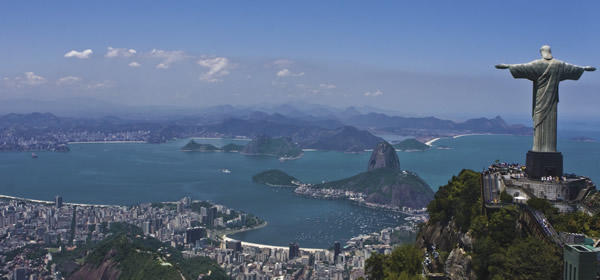
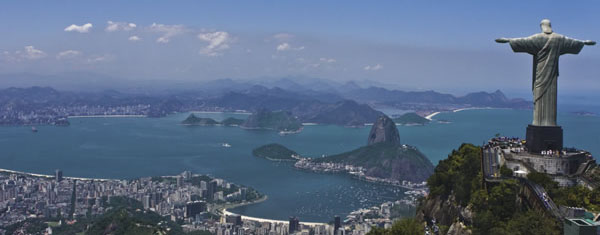
Demo makes the advantage of use with content of different heights apparent.

diff --git a/demo/components/Demo.jsx b/demo/components/Demo.jsx
@@ -37,23 +37,21 @@ class Demo extends React.Component {
           <p className="text-danger"><em>Click any content to trigger the transition.</em></p>
 
           <h2>Cross-fade transition</h2>
-          <ContentSwapper transitionName="cross-fade" transitionEnterTimeout={1000} transitionLeaveTimeout={1000}
-                          transitionHeight={false}>
-            <img key="img1" src="/img/vista1.jpg" width="600" height="280"/>
+          <ContentSwapper transitionName="cross-fade" transitionEnterTimeout={1000} transitionLeaveTimeout={1000}>
+            <img key="img1" src="/img/vista1.jpg" width="600" height="235"/>
             <img key="img2" src="/img/vista2.jpg" width="600" height="280"/>
           </ContentSwapper>
 
           <h2>Fade out, then fade in transition</h2>
-          <ContentSwapper transitionName="fade-wait" transitionEnterTimeout={1000} transitionLeaveTimeout={1000}>
+          <ContentSwapper transitionName="fade-wait" transitionEnterTimeout={1000} transitionLeaveTimeout={400}>
             <ContentLong key="long"/>
             <ContentShort key="short"/>
           </ContentSwapper>
 
           <h2>Carousel transition</h2>
-          <ContentSwapper style={{width: 600}}
-                          transitionName="carousel-swap" transitionEnterTimeout={500} transitionLeaveTimeout={500}
-                          transitionHeight={false}>
-            <img key="img3" src="/img/vista3.jpg" width="600" height="280"/>
+          <ContentSwapper transitionName="carousel-swap" transitionEnterTimeout={500} transitionLeaveTimeout={500}
+                          style={{width: 600}}>
+            <img key="img3" src="/img/vista3.jpg" width="600" height="255"/>
             <img key="img4" src="/img/vista4.jpg" width="600" height="280"/>
           </ContentSwapper>
 

diff --git a/demo/assets/transitions.css b/demo/assets/transitions.css
@@ -35,7 +35,7 @@ body {
 }
 .fade-wait-leave.fade-wait-leave-active {
   opacity: 0;
-  transition: opacity .5s ease-in;
+  transition: opacity .4s ease-in;
 }
 
 .fade-wait-enter {
@@ -44,7 +44,7 @@ body {
 .fade-wait-enter.fade-wait-enter-active {
   opacity: 1;
   /* Delay the enter animation until the leave completes */
-  transition: opacity .5s ease-in .5s;
+  transition: opacity .4s ease-in .6s;
 }
 
 .fade-wait-height {
